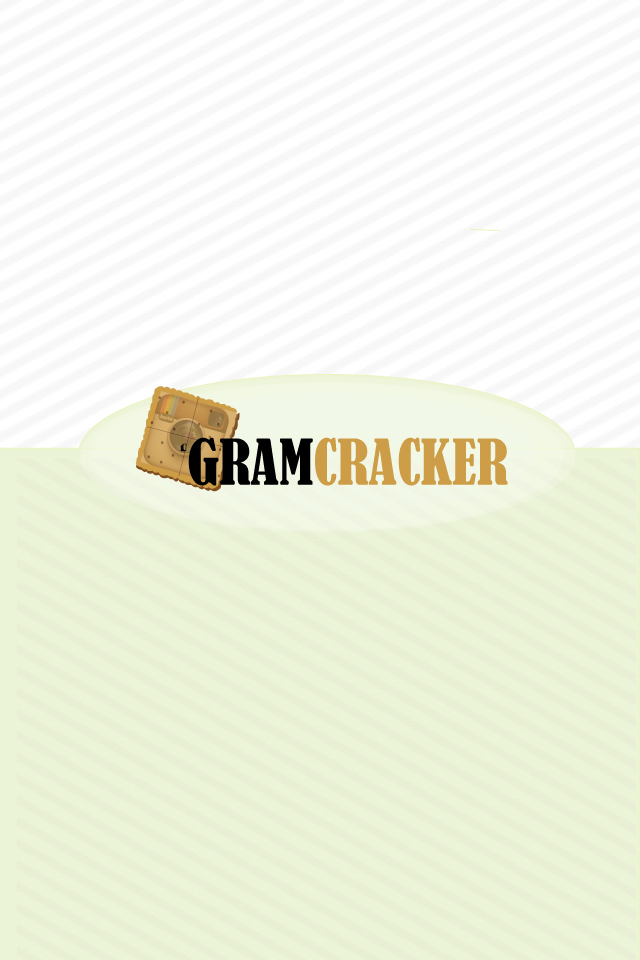
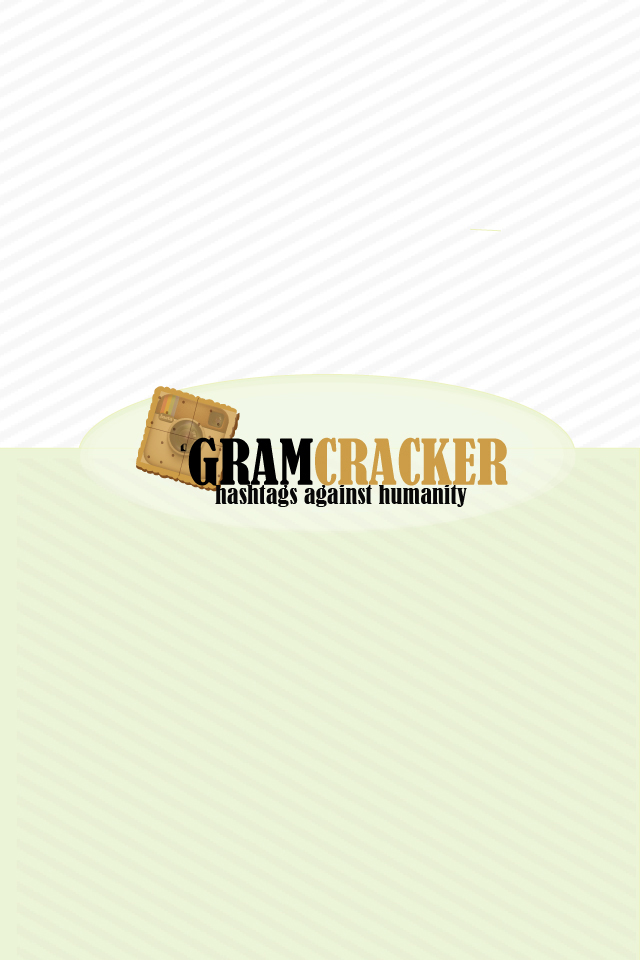
changing images

Changed region(s): [[0.3125, 0.5, 0.75, 0.5312]]

diff --git a/index.html b/index.html
@@ -75,15 +75,7 @@
 
 	</head>
 
-	<header>
-		<div id="container">
-			<div id="navcontainer">
-				<a href="index.html"><img src= "images/logo.png" id="logo"></a>
-
-				
-			</div> <!--navcontainer-->
-		</div><!--container-->
-	</header>
+	
 
 
 	<body>
@@ -92,7 +84,7 @@
 			
 		<img src= "images/HOMEIMAGE.png" id="mainimage">
 		<div id="containermain">
-			<h1> 'GRAMMING GETS REAL.</h1>
+			<h1> #HASHTAGS AGAINST HUMANITY</h1>
 			<p>
 		8-bit sartorial mlkshk pitchfork semiotics chillwave, asymmetrical forage lomo dreamcatcher aesthetic post-ironic salvia artisan. Leggings street art lomo VHS vegan selvage. Twee kitsch meh, Carles fashion axe ennui seitan cred shabby  </p>
 
